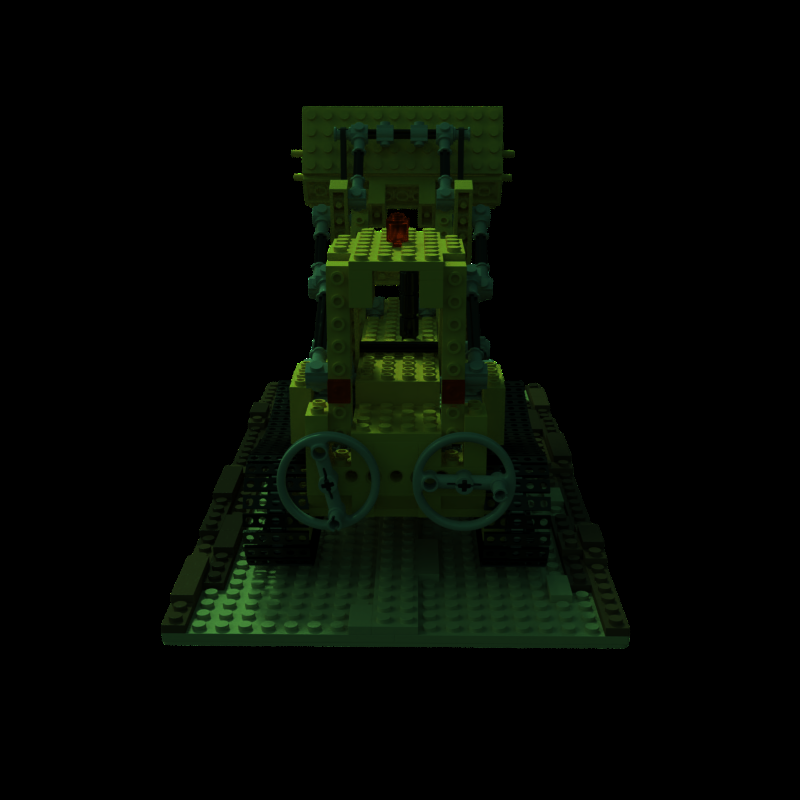
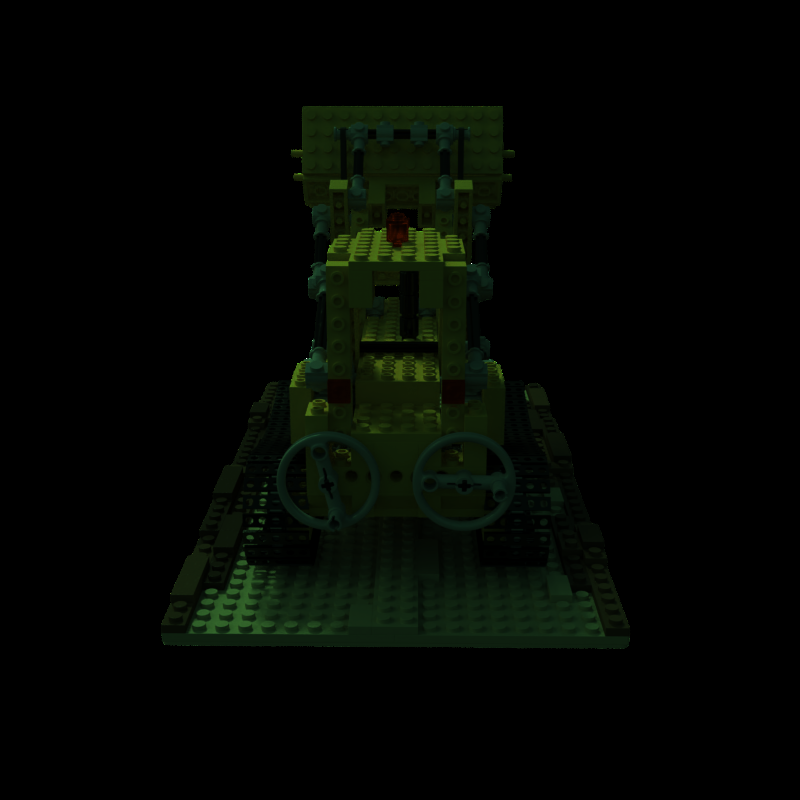
add raw images script

diff --git a/unprocessing/convert_png_to_raw.py b/unprocessing/convert_png_to_raw.py
@@ -1,0 +1,38 @@
+from copy import copy
+
+import tensorflow as tf
+import json
+
+import unprocess
+
+def unprocess_image(image_name):
+    # img = tf.io.read_file("../nerf_synthetic/lego/train/r_0.png")
+    img = tf.io.read_file(f"../data/nerf_synthetic/lego/test/{image_name}.png")
+    png_file = tf.io.decode_png(img, channels=3)
+    white_level = 255.0
+    png_image = tf.cast(png_file, tf.float32) / white_level
+    raw_img, metadata = unprocess.unprocess(png_image)
+    raw_img_white_level = raw_img * 255.0
+    tf.keras.utils.save_img(f'../data/nerf_raw/lego/test/{image_name}.png', raw_img_white_level.numpy(), scale=False)
+
+
+if __name__ == '__main__':
+    NUM_IMAGES = 120
+    TOTAL_IMAGES = 200
+    ratio = NUM_IMAGES/ TOTAL_IMAGES
+    step = TOTAL_IMAGES/NUM_IMAGES
+    transform_original = json.load(open("../data/nerf_synthetic/lego/transforms_test.json"))
+    transform_new = copy(transform_original)
+    transform_new['frames'] = []
+    all_imgs = {i for i in range(TOTAL_IMAGES)}
+    train_imgs = {round(step*i) for i in range(NUM_IMAGES)}
+    test_imgs = all_imgs - train_imgs
+    test_imgs_array = list(test_imgs)
+    TEST_IMAGES = 40
+    test_step = len(test_imgs) / TEST_IMAGES
+    for i in range(len(test_imgs_array)):
+        if i % 2 == 0:
+            unprocess_image(f"r_{test_imgs_array[i]}")
+            transform_new['frames'].append(transform_original['frames'][test_imgs_array[i]])
+        with open("../data/nerf_raw/lego/transforms_test.json", "w") as fp:
+            json.dump(transform_new, fp, indent=4)

diff --git a/unprocessing/unprocess_images.py b/unprocessing/unprocess_images.py
@@ -3,7 +3,7 @@ import tensorflow as tf
 
 if __name__ == '__main__':
     # img = tf.io.read_file("../nerf_synthetic/lego/train/r_0.png")
-    img = tf.io.read_file("../data/nerf_synthetic/lego/train/r_0.png")
+    img = tf.io.read_file("../data/nerf_synthetic/lego/test/r_1.png")
     print(img)
     png_file = tf.io.decode_png(img, channels=3)
     print(png_file[1,1,:])
@@ -11,5 +11,5 @@ if __name__ == '__main__':
     png_image = tf.cast(png_file, tf.float32) / white_level
     raw_img, metadata = unprocess.unprocess(png_image)
     raw_img_white_level = raw_img * 255.0
-    tf.keras.utils.save_img('raw_test.png', raw_img_white_level.numpy(), scale=False)
+    tf.keras.utils.save_img('r_1.png', raw_img_white_level.numpy(), scale=False)
     print(raw_img_white_level)
